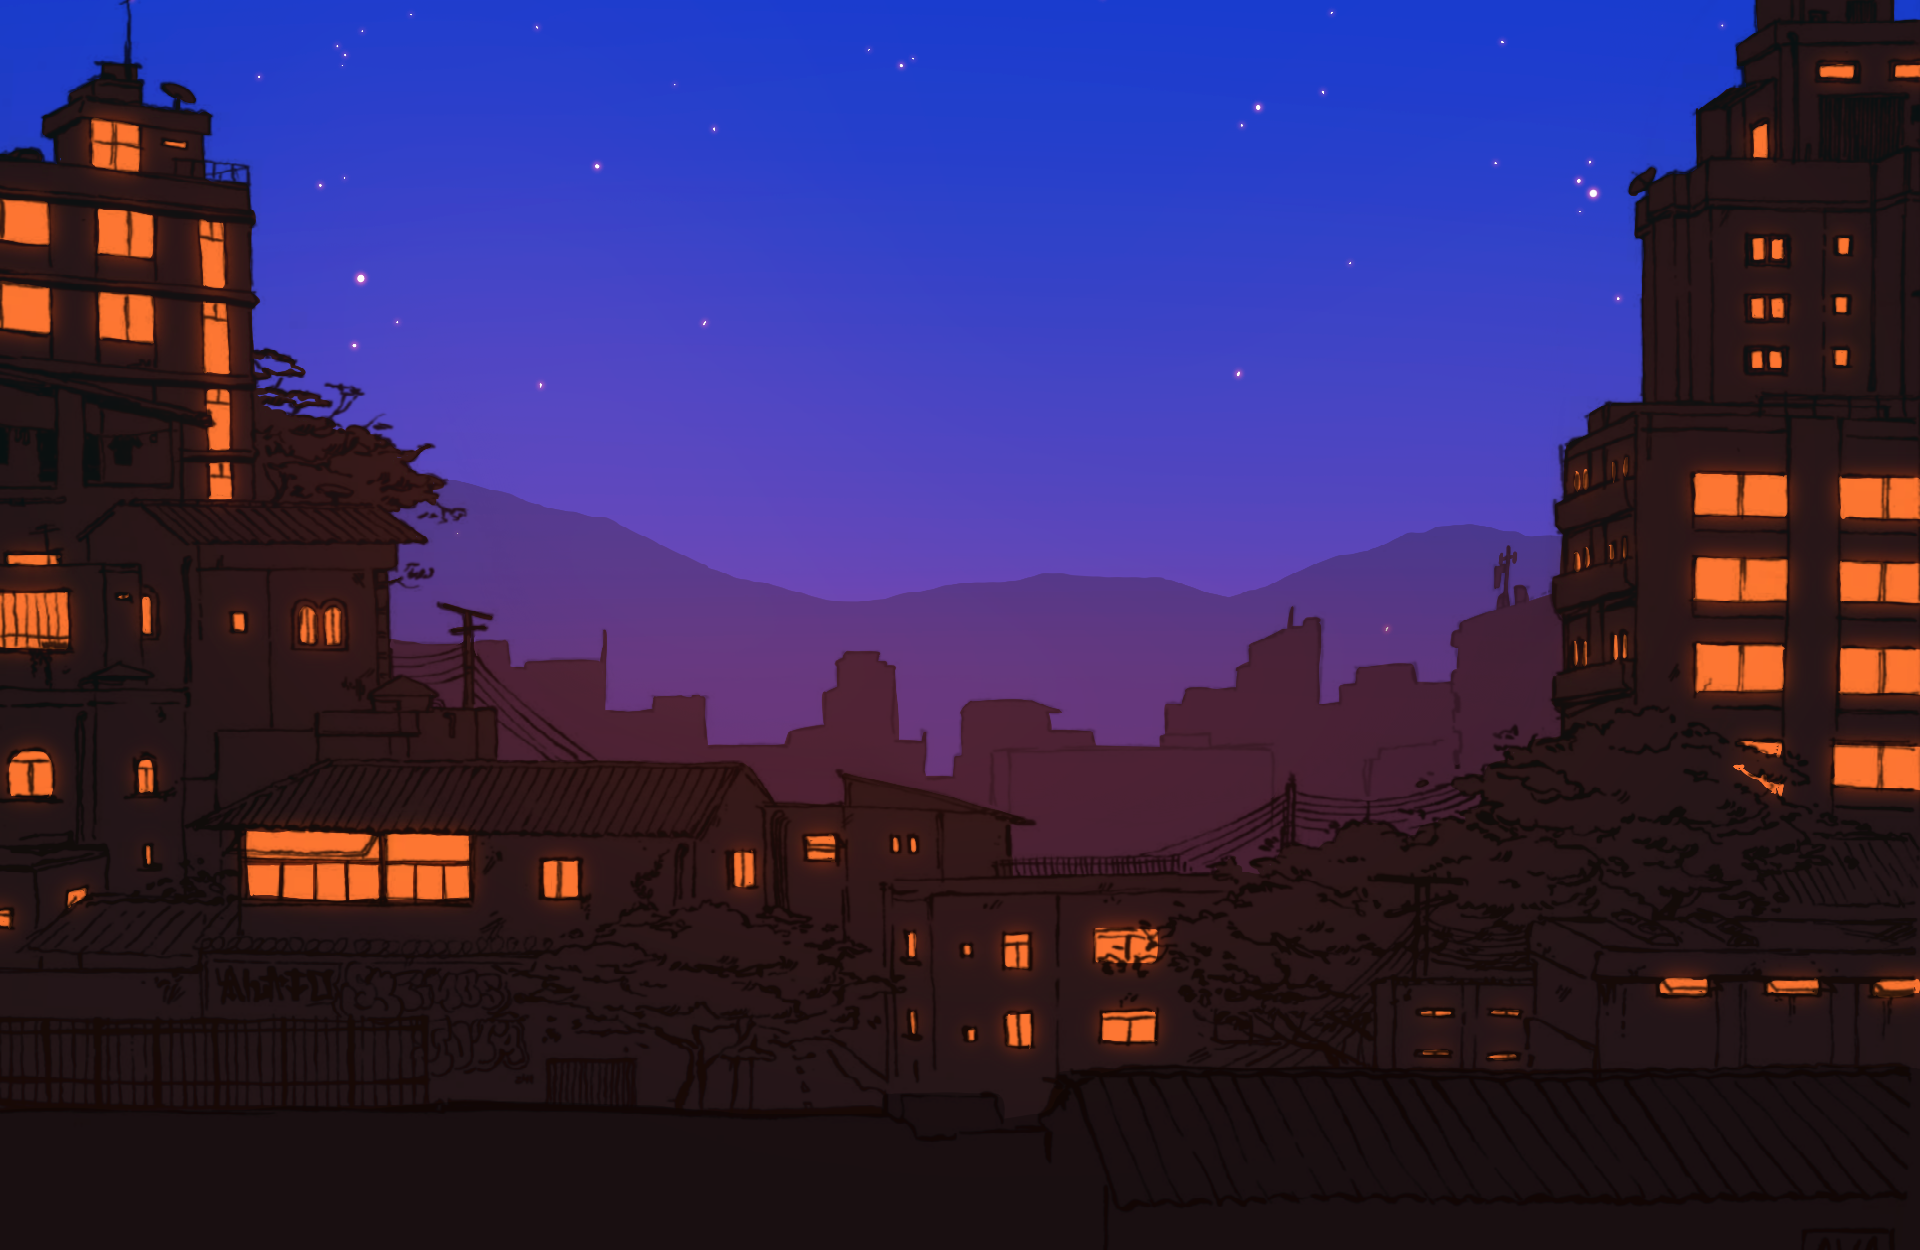
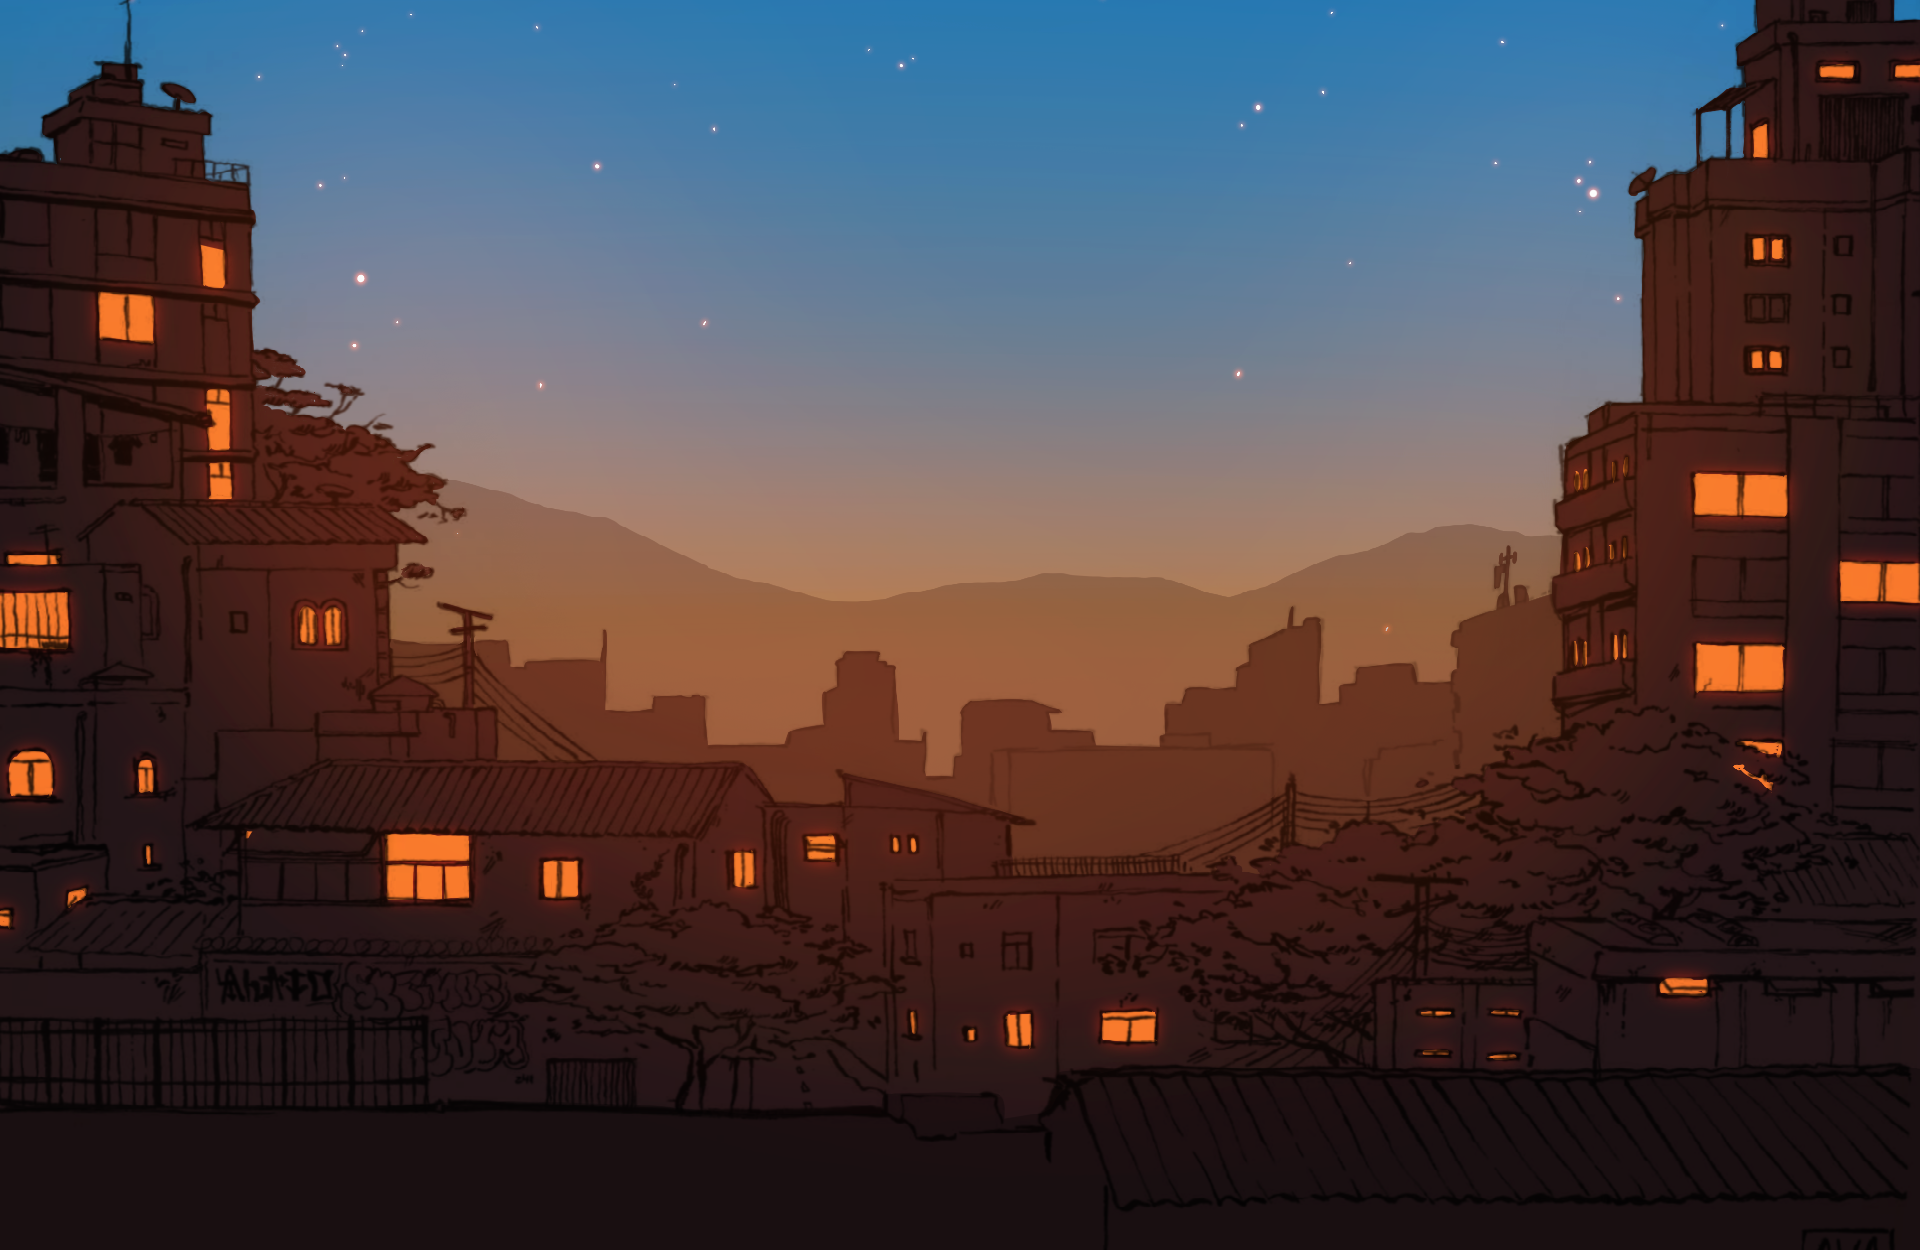
novas torres e variaçoes de fundo

diff --git a/Network.js b/Network.js
@@ -1,6 +1,6 @@
 class Network {
 
-  constructor(textDatabase, fontSize, curveRadius, img){
+  constructor(textDatabase, fontSize, curveRadius, imgA, imgB){
   
     this.textDatabase = shuffle(textDatabase);
     this.fontSize = fontSize;
@@ -9,7 +9,7 @@ class Network {
     this.nColumns = 3;
     this.spacing_y = fontSize * 5 * windowWidth/1920;
     this.wires = [];
-    this.img = img
+    this.img = [imgA, imgB];
     
     for (let i = 0; i < this.nRows; i++) {
     
@@ -33,11 +33,11 @@ class Network {
     let transitionIndex = 0;
     let initialPosition_x = windowWidth/2 - this.spacing_x;
     
-    for (let a = 0; a < this.nColumns; a++){
+    for (let a = 0; a < this.nColumns - 1; a++){ 
     
-      image(this.img, windowWidth/2 - this.spacing_x/2 - this.img.width/2 + (a * this.spacing_x), 50);
+      image(this.img[a], windowWidth/2 - this.spacing_x/2 - this.img[a].width/2 + (a * this.spacing_x), 50);
+      //image(this.img[a],0, 0);
     }
-    
   
     for (let i = 0; i < this.nRows; i++){
       

diff --git a/communication.js b/communication.js
@@ -6,7 +6,8 @@ var network;
 var signalIndex = 0;
 
 var wires = [];
-var towerImg;
+var towerImgA;
+var towerImgB;
 var backgroundImg;
 var signalSound;
 var keyPressSound;
@@ -18,7 +19,8 @@ function preload() {
   randBg = "Background" + str(randBg) + ".png";
   
   backgroundImg = loadImage(randBg);
-  towerImg = loadImage('poste.png');
+  towerImgA = loadImage('poste1.png');
+  towerImgB = loadImage('poste2.png');
   signalSound = loadSound('Signal.mp3');
   keyPressSound = loadSound('Keypress.mp3');
   backgroundSound = loadSound('BackgroundNoise.mp3');
@@ -42,7 +44,7 @@ function setup() {
   button.mousePressed(sendNewMessage); 
   noStroke();
   
-  network = new Network(textDatabase, fontSize, curveRadius, towerImg);
+  network = new Network(textDatabase, fontSize, curveRadius, towerImgA, towerImgB);
   
   if (backgroundImg.width/backgroundImg.height > windowWidth/windowHeight){
     backgroundImg.resize(0, windowHeight);

diff --git a/TextDatabase.js b/TextDatabase.js
@@ -21,4 +21,24 @@ var textDatabase = [
   "SEM MOVIMENTO NÃO HÁ VIDA",
   "chupa meu bucetao",
   "iiiiiiiiiiiii"
+  "digimonas",
+  "voce está comendo chocolate",
+  "pizza de lua",
+  "nao sei o que escrever kkkk desculpa",
+  "no que você está pensando?"
+  "JOGUE SILKSONG",
+  "e pegue e puxe e pegue e naipe e naipe naipe e naipe naipe",
+  "devaneios estranhos...",
+  "SKAAAAASJDHAKSHS FDSAJFHAFHDSH ",
+  "",
+  "",
+  "",
+  "",
+  "",
+  "",
+  "",
+  "",
+  "",
+  "",
+  ""
 ];
